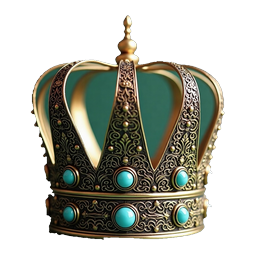
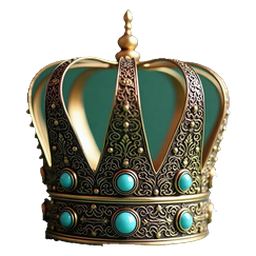
行囊/装备图标：放大并填满画布（顺带修好那把"一根线"的剑）
问题不在 CSS 尺寸，而在素材本身：图标是 256×256 的正方形画布，实物只占其中一块。
兵器最夸张 —— 剑身只占画布宽度的 18%（47px），所以 32px 的格子里只有 6px 宽，
看起来就是一根竖线；戒指也只占 56%。

做法（tools/fit-item-art.py，可重复执行，跑第二遍结果不变）
- 按 alpha 裁到实物外框；
- 细长实物（高宽比 > 2.2）转成斜置 -38°：方形格子里斜放比竖放占的面积大得多，
  这也是游戏道具图标的通行画法。剑由 47px 宽变成 143px，视觉上大了 3 倍；
- 四周留 4% 边距补成正方形，缩回 256×256。

CSS
- .bag-cell .itm 32 → 40px；.eq-slot/.ic-icon 30 → 36px；
- .itm 加一点 contrast/saturate：这些 AI 实物图在浅色日间模式下会发灰，提一点更"真"。

另：_gen 里的战靴 AI 图抠图失败（只剩一块绿斑），未采用，继续用矢量兜底，
fit 脚本里已列入 SKIP，避免以后误覆盖。

版本号 202609250207 → 202609250242。

diff --git a/index.html b/index.html
@@ -28,8 +28,8 @@
   if (mt) mt.setAttribute('content', mode === 'day' ? '#e7eef4' : '#0c0a09');
 })();
 </script>
-<script src="js/viewport.js?v=202609250207"></script>
-<link rel="stylesheet" href="css/style.css?v=202609250207" />
+<script src="js/viewport.js?v=202609250242"></script>
+<link rel="stylesheet" href="css/style.css?v=202609250242" />
 </head>
 <body>
 <div id="app">
@@ -131,23 +131,23 @@
 </div>
 <div class="rotate-tip" id="rotate-tip">请竖屏握持手机</div>
 
-<script src="js/icons.js?v=202609250207"></script>
+<script src="js/icons.js?v=202609250242"></script>
 <script>if (window.LUCIDE_SPRITE) document.body.insertAdjacentHTML('afterbegin', window.LUCIDE_SPRITE);</script>
-<script src="js/data.js?v=202609250207"></script>
-<script src="js/mob-art.js?v=202609250207"></script>
-<script src="js/hero-female.js?v=202609250207"></script>
-<script src="js/figure.js?v=202609250207"></script>
-<script src="js/skeleton.js?v=202609250207"></script>
-<script src="assets/hero_rig.js?v=202609250207"></script>
-<script src="js/figure-motion.js?v=202609250207"></script>
-<script src="js/music.js?v=202609250207"></script>
-<script src="js/account.js?v=202609250207"></script>
-<script src="js/tcb-sdk.js?v=202609250207"></script>
+<script src="js/data.js?v=202609250242"></script>
+<script src="js/mob-art.js?v=202609250242"></script>
+<script src="js/hero-female.js?v=202609250242"></script>
+<script src="js/figure.js?v=202609250242"></script>
+<script src="js/skeleton.js?v=202609250242"></script>
+<script src="assets/hero_rig.js?v=202609250242"></script>
+<script src="js/figure-motion.js?v=202609250242"></script>
+<script src="js/music.js?v=202609250242"></script>
+<script src="js/account.js?v=202609250242"></script>
+<script src="js/tcb-sdk.js?v=202609250242"></script>
 <script>window.LX_TCB_ENV = 'lingxu-7-d0ggtxsjw13210d0c';</script>
-<script src="js/core.js?v=202609250207"></script>
-<script src="js/render.js?v=202609250207"></script>
-<script src="js/ui.js?v=202609250207"></script>
-<script src="js/main.js?v=202609250207"></script>
+<script src="js/core.js?v=202609250242"></script>
+<script src="js/render.js?v=202609250242"></script>
+<script src="js/ui.js?v=202609250242"></script>
+<script src="js/main.js?v=202609250242"></script>
 <script>
 /* ===================== 自动更新到最新版 =====================
    发布时 BUILD 会被替换为发布时间戳：
@@ -155,7 +155,7 @@
      · 每 45 秒 / 每次切回前台检查 version.json，发现新版自动刷新
    存档在 localStorage，刷新不会丢进度。 */
 (function () {
-  var CUR = '202609250207';
+  var CUR = '202609250242';
   var busy = false;
   function check() {
     if (busy) return;

diff --git a/css/style.css b/css/style.css
@@ -3512,8 +3512,11 @@ html[data-mode='day'] .shop-card { background: #ffffff; border-color: rgba(23, 3
 html[data-mode='day'] .shop-price { color: #0369a1; }
 
 /* 装备实物小图（行囊 / 已着装备 / 详情头部） */
-.itm { display: block; object-fit: contain; filter: drop-shadow(0 1px 1.5px rgba(0, 0, 0, .5)); }
-.bag-cell .itm { width: 32px; height: 32px; margin: 0 auto; }
-.eq-slot .itm { width: 30px; height: 30px; }
-.ic-icon .itm { width: 30px; height: 30px; }
+.itm { display: block; object-fit: contain;
+  filter: contrast(1.08) saturate(1.1) drop-shadow(0 1px 1.5px rgba(0, 0, 0, .55)); }
+/* 图标本身已在 tools/fit-item-art.py 里裁到实物外框并补成方图（细长的兵器转斜置），
+   所以这里的尺寸就是实物的实际视觉尺寸 —— 32px 时那把剑只有 6px 宽，像一根线。 */
+.bag-cell .itm { width: 40px; height: 40px; margin: 0 auto; }
+.eq-slot .itm { width: 36px; height: 36px; }
+.ic-icon .itm { width: 36px; height: 36px; }
 

diff --git a/tools/fit-item-art.py b/tools/fit-item-art.py
@@ -1,0 +1,60 @@
+"""把行囊/装备的实物图标规整成「填满画布」的方形图标。
+
+为什么不直接调 CSS 尺寸：这些图是 256×256 的正方形画布，但实物只占其中一块 ——
+剑是竖长条，只占画布宽度的 18%，于是 32px 的格子里剑身只有 6px 宽，
+看起来就是"一根线"。放大 CSS 尺寸会同时撑大留白，格子反而更空。
+
+做法（可重复执行，跑第二遍结果不变）：
+  1. 按 alpha 裁到实物外框；
+  2. 特别细长的实物（剑）转成斜置 —— 方形格子里斜放比竖放占的面积大得多，
+     这也正是游戏道具图标的通行画法；
+  3. 四周留 4% 边距，补成正方形，缩回 256×256。
+"""
+import glob
+import os
+
+from PIL import Image
+
+MAX_RATIO = 2.2      # 高宽比超过这个值就算"细长"，转斜置
+ANGLE = -38          # 逆时针多少度（负值＝右上到左下，符合持械习惯）
+PAD = 0.04           # 四周留白比例
+SIZE = 256
+
+
+def fit(path, out=None):
+    im = Image.open(path).convert('RGBA')
+    bb = im.getbbox()
+    if bb:
+        im = im.crop(bb)
+    if im.height > im.width * MAX_RATIO:                 # 竖长剑 → 斜置
+        im = im.rotate(ANGLE, resample=Image.BICUBIC, expand=True)
+        bb = im.getbbox()
+        if bb:
+            im = im.crop(bb)
+    side = int(max(im.width, im.height) * (1 + PAD * 2))
+    canvas = Image.new('RGBA', (side, side), (0, 0, 0, 0))
+    canvas.paste(im, ((side - im.width) // 2, (side - im.height) // 2))
+    canvas = canvas.resize((SIZE, SIZE), Image.LANCZOS)
+    dst = out or path
+    canvas.save(dst)
+    return canvas.size, (im.width, im.height)
+
+
+SKIP = {'it_boots.png'}   # 战靴的 AI 图抠图失败（只剩一块绿斑）→ 继续用矢量兜底
+
+
+def main():
+    files = sorted(glob.glob('assets/it_*.png')) + sorted(glob.glob('_gen/it_*.png'))
+    seen = set()
+    for f in files:
+        name = os.path.basename(f)
+        if name in seen or name in SKIP:
+            continue
+        seen.add(name)
+        dst = os.path.join('assets', name)
+        if f.startswith('_gen') and os.path.exists(dst):
+            continue                       # assets 里已有就不覆盖
+        print("%-18s -> %s  content=%s" % (name, fit(f, dst), dst), flush=True)
+
+
+main()
